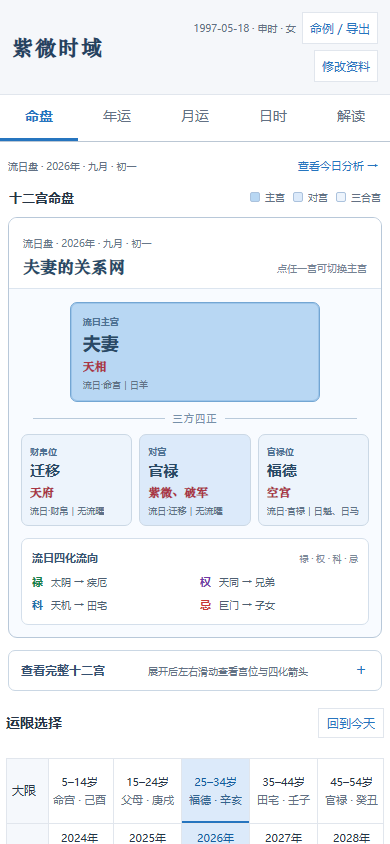
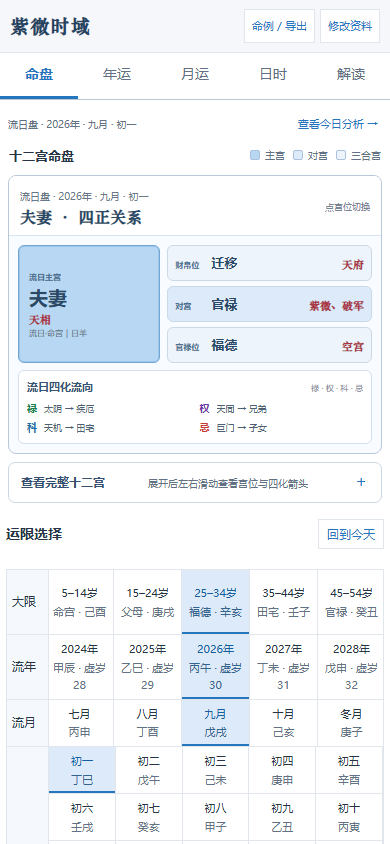
fix: compact mobile chart proportions

diff --git a/layout.css b/layout.css
@@ -320,12 +320,11 @@ footer p { color: var(--muted); font-size: 11px; }
 }
 @media (max-width: 600px) {
   .masthead, main, footer { width: 100%; padding-inline: 0; }
-  .masthead { min-height: 60px; padding: 12px; gap: 8px; }
-  .masthead h1 { font-size: 21px; }
-  .profile-tools { gap: 6px; flex-wrap: wrap; }
-  .profile-tools > span { flex-basis: 100%; }
-  .profile-tools > span { max-width: 145px; font-size: 10px; text-align: right; }
-  .profile-tools button { padding: 6px 7px; font-size: 12px; }
+  .masthead { min-height: 52px; padding: 7px 10px; gap: 8px; }
+  .masthead h1 { font-size: 19px; letter-spacing: .06em; }
+  .profile-tools { gap: 5px; flex-wrap: nowrap; }
+  .profile-tools > span { display: none; }
+  .profile-tools button { min-height: 34px; padding: 5px 7px; font-size: 11px; }
   .workspace-nav { padding: 0; border-inline: 0; }
   .workspace-nav button { flex: 1; min-width: 0; min-height: 46px; font-size: 14px; }
   .result, .monthly-sheet, .daily-sheet, .system-sheet, .report-sheet { padding: 12px 10px 20px; border-inline: 0; }
@@ -337,36 +336,37 @@ footer p { color: var(--muted); font-size: 11px; }
   .chart-section .section-heading { padding-inline: 3px; gap: 6px; }
   .chart-section h2 { font-size: 13px; }
   .legend { gap: 8px; font-size: 10px; }
-  .mobile-relation-map { display: block; margin: 0 2px 12px; border: 1px solid #b8c8d9; border-radius: 9px; background: #f8fbff; overflow: hidden; }
-  .mobile-relation-heading { display: flex; align-items: end; justify-content: space-between; gap: 12px; padding: 13px 14px 10px; border-bottom: 1px solid #dce5ef; background: #fff; }
+  .mobile-relation-map { display: block; margin: 0 2px 8px; border: 1px solid #b8c8d9; border-radius: 8px; background: #f8fbff; overflow: hidden; }
+  .mobile-relation-heading { display: flex; min-height: 48px; align-items: center; justify-content: space-between; gap: 10px; padding: 8px 11px; border-bottom: 1px solid #dce5ef; background: #fff; }
   .mobile-relation-heading span { color: #68788a; font-size: 10px; }
-  .mobile-relation-heading h3 { margin: 2px 0 0; color: #294966; font: 700 17px/1.35 "STZhongsong", "Songti SC", SimSun, serif; }
-  .mobile-relation-heading p { margin: 0 0 2px; color: #758394; font-size: 10px; white-space: nowrap; }
-  .mobile-relation-network { position: relative; padding: 13px 12px 12px; }
-  .mobile-relation-main { width: min(72%, 260px); margin: 0 auto; }
-  .mobile-relation-axis { display: grid; grid-template-columns: 1fr auto 1fr; align-items: center; gap: 8px; margin: 8px 12px; color: #7690a9; }
-  .mobile-relation-axis span { height: 1px; background: #b9cadb; }
-  .mobile-relation-axis b { font-size: 10px; font-weight: 500; letter-spacing: .12em; }
-  .mobile-relation-related { display: grid; grid-template-columns: repeat(3,minmax(0,1fr)); gap: 7px; }
-  .mobile-relation-card { display: grid; width: 100%; min-width: 0; min-height: 86px; align-content: start; justify-items: start; gap: 3px; padding: 9px 8px; border: 1px solid #cbd8e5; border-radius: 7px; color: var(--ink); background: #fff; text-align: left; cursor: pointer; }
-  .mobile-relation-card.role-main { min-height: 96px; padding: 11px 12px; border-color: #73a6d3; background: var(--focus-fill); box-shadow: inset 0 0 0 1px rgba(38,117,191,.18); }
+  .mobile-relation-heading h3 { margin: 1px 0 0; color: #294966; font: 700 16px/1.25 "STZhongsong", "Songti SC", SimSun, serif; }
+  .mobile-relation-heading p { margin: 0; color: #758394; font-size: 9px; white-space: nowrap; }
+  .mobile-relation-network { position: relative; display: grid; grid-template-columns: minmax(112px,.82fr) minmax(0,1.18fr); gap: 7px; padding: 9px 9px 7px; }
+  .mobile-relation-main { display: flex; min-width: 0; }
+  .mobile-relation-related { display: grid; min-width: 0; grid-template-rows: repeat(3,minmax(0,1fr)); gap: 5px; }
+  .mobile-relation-card { display: grid; width: 100%; min-width: 0; min-height: 0; align-content: center; justify-items: start; gap: 1px; padding: 5px 7px; border: 1px solid #cbd8e5; border-radius: 6px; color: var(--ink); background: #fff; text-align: left; cursor: pointer; }
+  .mobile-relation-card.role-main { min-height: 118px; padding: 9px 10px; border-color: #73a6d3; background: var(--focus-fill); box-shadow: inset 0 0 0 1px rgba(38,117,191,.18); }
   .mobile-relation-card.role-opposite { background: var(--opposite-fill); }
   .mobile-relation-card.role-wealth, .mobile-relation-card.role-career { background: var(--trine-fill); }
-  .mobile-relation-role { color: #4d7193; font-size: 9px; font-weight: 700; }
-  .mobile-relation-card strong { color: #294966; font: 700 15px/1.3 var(--ui-font); }
-  .mobile-relation-card.role-main strong { font-size: 18px; }
-  .mobile-relation-stars { width: 100%; overflow: hidden; color: #a93444; font: 600 12px/1.4 "STZhongsong", "Songti SC", SimSun, serif; text-overflow: ellipsis; white-space: nowrap; }
-  .mobile-relation-card small { display: -webkit-box; overflow: hidden; color: #607287; font-size: 9px; line-height: 1.35; -webkit-box-orient: vertical; -webkit-line-clamp: 2; }
-  .mobile-flight-routes { margin: 0 12px 12px; padding: 10px; border: 1px solid #d4dfeb; border-radius: 7px; background: #fff; }
-  .mobile-flight-routes header { display: flex; justify-content: space-between; align-items: baseline; gap: 8px; margin-bottom: 7px; }
+  .mobile-relation-role { color: #4d7193; font-size: 8px; font-weight: 700; }
+  .mobile-relation-card strong { color: #294966; font: 700 13px/1.2 var(--ui-font); }
+  .mobile-relation-card.role-main strong { margin-block: 2px; font-size: 19px; }
+  .mobile-relation-stars { width: 100%; overflow: hidden; color: #a93444; font: 600 11px/1.3 "STZhongsong", "Songti SC", SimSun, serif; text-overflow: ellipsis; white-space: nowrap; }
+  .mobile-relation-card small { width: 100%; overflow: hidden; color: #607287; font-size: 8px; line-height: 1.3; text-overflow: ellipsis; white-space: nowrap; }
+  .mobile-relation-related .mobile-relation-card { grid-template-columns: auto auto minmax(0,1fr); align-items: baseline; align-content: center; column-gap: 5px; }
+  .mobile-relation-related .mobile-relation-role { min-width: 31px; }
+  .mobile-relation-related .mobile-relation-stars { text-align: right; }
+  .mobile-relation-related .mobile-relation-card small { display: none; }
+  .mobile-flight-routes { margin: 0 9px 9px; padding: 7px 8px 8px; border: 1px solid #d4dfeb; border-radius: 6px; background: #fff; }
+  .mobile-flight-routes header { display: flex; justify-content: space-between; align-items: baseline; gap: 8px; margin-bottom: 4px; }
   .mobile-flight-routes header strong { color: #385675; font-size: 11px; }
-  .mobile-flight-routes header span { color: #7b8998; font-size: 9px; }
-  .mobile-flight-routes ul { display: grid; grid-template-columns: repeat(2,minmax(0,1fr)); gap: 5px 10px; margin: 0; padding: 0; list-style: none; }
-  .mobile-flight-routes li { display: grid; grid-template-columns: 15px minmax(0,1fr); gap: 4px; align-items: baseline; min-width: 0; font-size: 10px; }
-  .mobile-flight-routes li b { font-size: 11px; }
+  .mobile-flight-routes header span { color: #7b8998; font-size: 8px; }
+  .mobile-flight-routes ul { display: grid; grid-template-columns: repeat(2,minmax(0,1fr)); gap: 3px 9px; margin: 0; padding: 0; list-style: none; }
+  .mobile-flight-routes li { display: grid; grid-template-columns: 14px minmax(0,1fr); gap: 3px; align-items: baseline; min-width: 0; font-size: 9px; }
+  .mobile-flight-routes li b { font-size: 10px; }
   .mobile-flight-routes li span { overflow: hidden; color: #4d5f72; text-overflow: ellipsis; white-space: nowrap; }
   .mobile-route-empty { grid-column: 1 / -1 !important; color: var(--muted); }
-  .mobile-chart-caption { display: block; margin: 0 2px 5px; }
+  .mobile-chart-caption { display: block; margin: 0 2px 4px; }
   .mobile-chart-toggle { display: flex; width: 100%; align-items: baseline; justify-content: space-between; gap: 8px; padding: 10px 12px; border: 1px solid #cad7e4; border-radius: 7px; background: #fff; text-align: left; cursor: pointer; }
   .mobile-chart-toggle strong { color: #344f70; font-size: 12px; }
   .mobile-chart-toggle span { color: var(--muted); font-size: 10px; }

diff --git a/app.js b/app.js
@@ -571,10 +571,9 @@
         escapeHtml(route.starName) + ' → ' + escapeHtml(route.targetName) + (route.isSelf ? ' · 自化' : '') + '</span></li>';
     }).join('') : '<li class="mobile-route-empty">当前层暂无四化路线</li>';
     els.mobileRelationMap.innerHTML = '<header class="mobile-relation-heading"><div><span>' + escapeHtml(transitSelectionText()) +
-      '</span><h3>' + escapeHtml(main.name) + '的关系网</h3></div><p>点任一宫可切换主宫</p></header>' +
+      '</span><h3>' + escapeHtml(main.name) + ' · 四正关系</h3></div><p>点宫位切换</p></header>' +
       '<div class="mobile-relation-network"><div class="mobile-relation-main">' +
       mobileRelationCard(runtime.selectedPalaceIndex, 'main', focusLabel) + '</div>' +
-      '<div class="mobile-relation-axis"><span></span><b>三方四正</b><span></span></div>' +
       '<div class="mobile-relation-related">' +
       mobileRelationCard(runtime.relationRoles.wealth, 'wealth', '财帛位') +
       mobileRelationCard(runtime.relationRoles.opposite, 'opposite', '对宫') +
